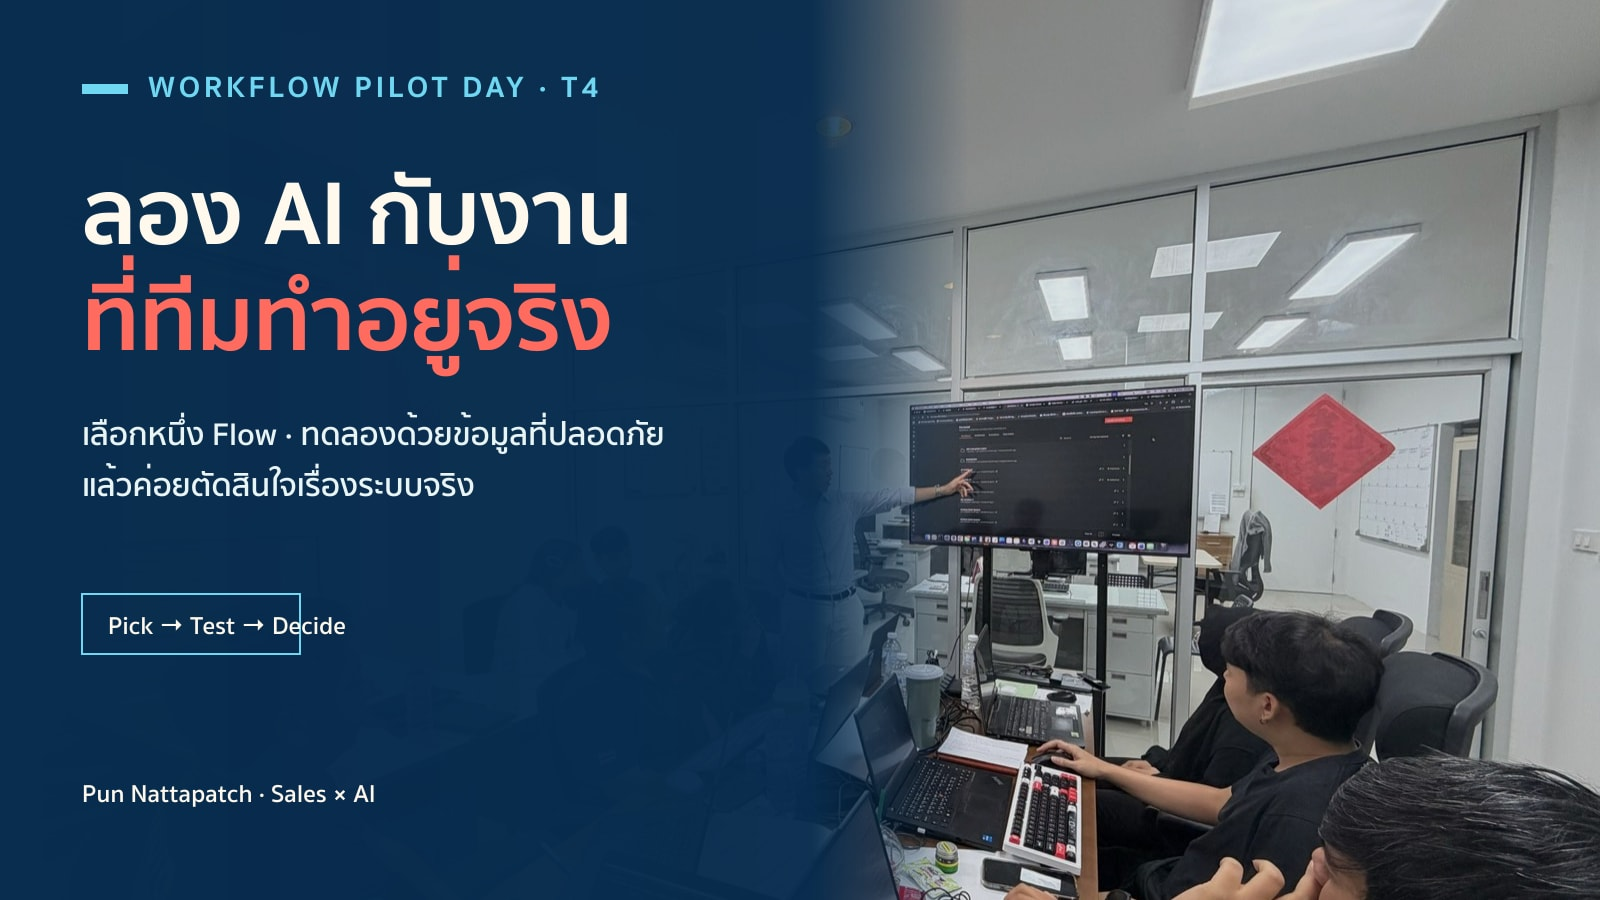
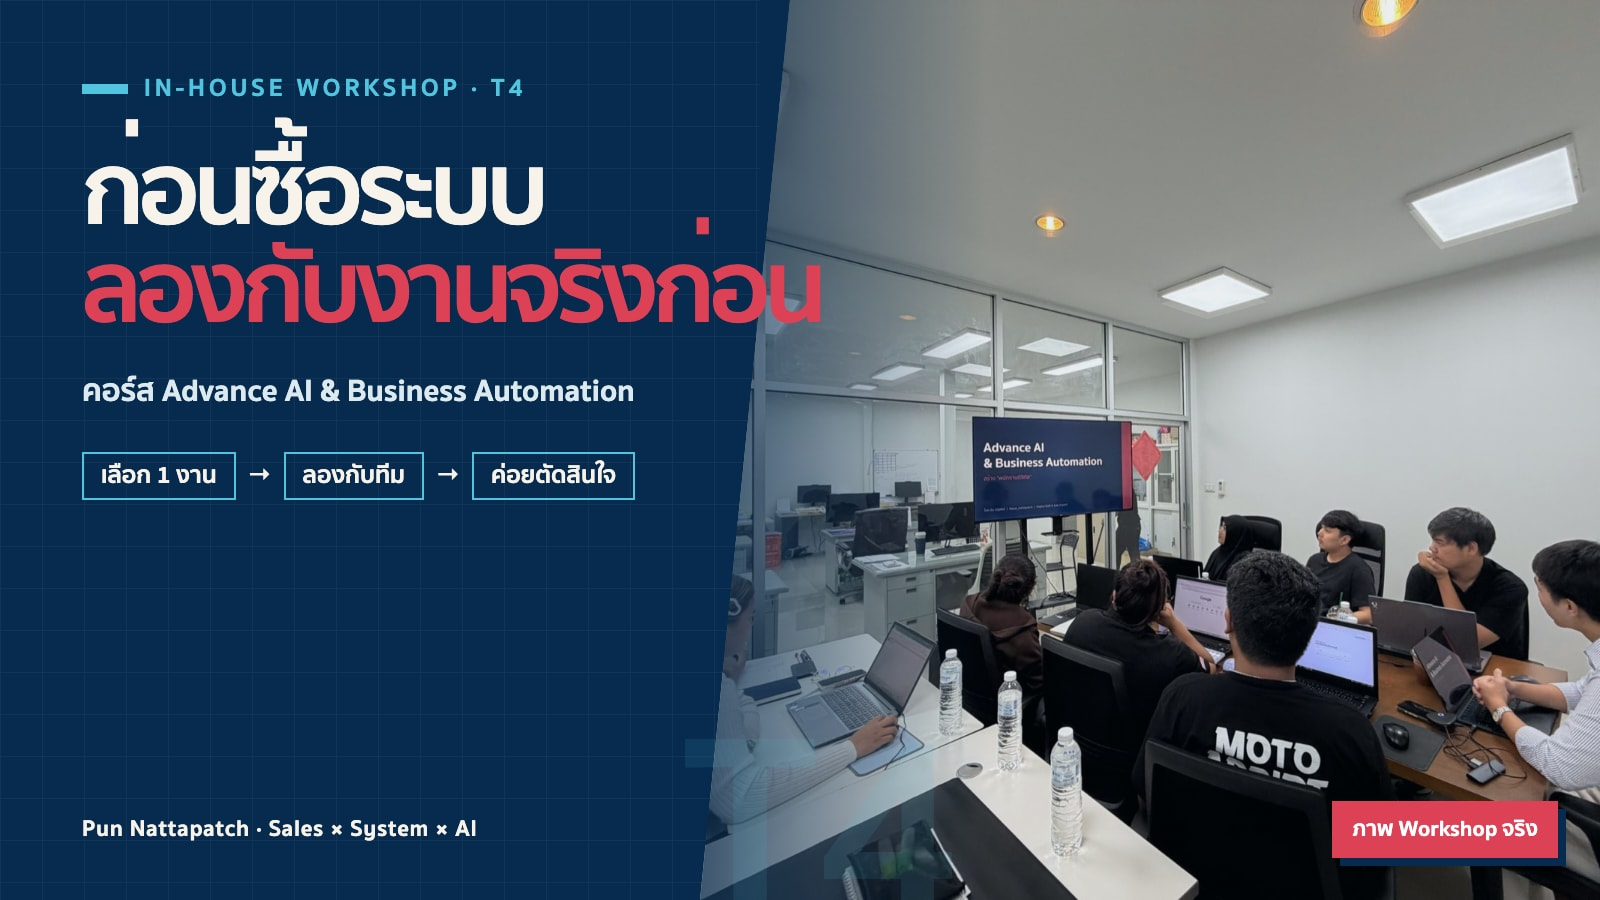
feat: add real-photo T4 service thumbnail

diff --git a/scripts/t4-service-thumbnail.html b/scripts/t4-service-thumbnail.html
@@ -1,0 +1,74 @@
+<!doctype html>
+<html lang="th" data-theme="light">
+<head>
+  <meta charset="UTF-8" />
+  <meta name="viewport" content="width=device-width, initial-scale=1.0" />
+  <title>T4 service thumbnail</title>
+  <link rel="preconnect" href="https://fonts.googleapis.com" />
+  <link rel="preconnect" href="https://fonts.gstatic.com" crossorigin />
+  <link href="https://fonts.googleapis.com/css2?family=Noto+Sans+Thai:wght@500;600;700;800;900&amp;display=swap" rel="stylesheet" />
+  <link href="https://cdn.jsdelivr.net/npm/daisyui@5.4.7/daisyui.css" rel="stylesheet" type="text/css" />
+  <script src="https://cdn.jsdelivr.net/npm/@tailwindcss/browser@4.1.14"></script>
+  <style type="text/tailwindcss">
+    @theme {
+      --font-display: "Sukhumvit Set", "Noto Sans Thai", sans-serif;
+      --font-body: "Sukhumvit Set", "Noto Sans Thai", sans-serif;
+      --color-pun-navy: #072b4e;
+      --color-pun-coral: #dd4155;
+      --color-pun-ivory: #f7f3ea;
+      --color-pun-cyan: #51c4df;
+    }
+
+    * { box-sizing: border-box; }
+    html, body { width: 1600px; height: 900px; margin: 0; overflow: hidden; }
+    body { font-family: var(--font-body); }
+    .artboard {
+      @apply relative h-[900px] w-[1600px] overflow-hidden bg-pun-navy text-pun-ivory;
+      isolation: isolate;
+    }
+    .photo {
+      @apply absolute right-0 top-0 h-full w-[900px] overflow-hidden;
+      clip-path: polygon(10% 0, 100% 0, 100% 100%, 0 100%);
+    }
+    .photo img { @apply h-full w-full object-cover; object-position: 53% 61%; }
+    .photo::after {
+      content: "";
+      @apply absolute inset-0;
+      background: linear-gradient(90deg, rgba(7, 43, 78, .76) 0%, rgba(7, 43, 78, .08) 32%, rgba(7, 43, 78, .08) 100%);
+    }
+    .copy { @apply absolute left-[82px] top-[70px] z-10 w-[790px]; }
+    .eyebrow { @apply flex items-center gap-4 text-[25px] font-bold uppercase tracking-[.16em] text-pun-cyan; }
+    .eyebrow::before { content: ""; @apply block h-[10px] w-[46px] bg-pun-cyan; }
+    .hook { @apply mt-9 font-display text-[100px] font-bold leading-[.98] tracking-[-.055em]; }
+    .hook em { @apply not-italic text-pun-coral; }
+    .offer { @apply mt-8 max-w-[690px] text-[31px] font-bold leading-[1.3] text-[#dceaf0]; }
+    .mechanism { @apply mt-10 flex items-center gap-3 font-display text-[24px] font-bold; }
+    .mechanism span { @apply border-2 border-pun-cyan px-[17px] py-[10px] leading-none; }
+    .signature { @apply absolute bottom-[54px] left-[82px] z-10 flex items-center gap-3 text-[23px] font-bold tracking-[.03em]; }
+    .proof-chip { @apply absolute bottom-[42px] right-[42px] z-10 bg-pun-coral px-5 py-3 text-[22px] font-bold text-white shadow-[8px_8px_0_#072b4e]; }
+    .index { @apply absolute bottom-[-54px] left-[685px] z-0 font-display text-[250px] font-bold leading-none text-pun-cyan opacity-[.11]; }
+    .grid-mark {
+      @apply absolute inset-y-0 left-0 w-[760px] opacity-[.055];
+      background-image: linear-gradient(rgba(247,243,234,.8) 1px, transparent 1px), linear-gradient(90deg, rgba(247,243,234,.8) 1px, transparent 1px);
+      background-size: 42px 42px;
+    }
+  </style>
+</head>
+<body>
+  <main id="t4-thumbnail" class="artboard" data-source-kind="real-workshop-photo" data-title="คอร์ส Advance AI &amp; Business Automation">
+    <div class="grid-mark" aria-hidden="true"></div>
+    <div class="photo">
+      <img src="../public/lp/inhouse/office-session.jpg" alt="ทีมจริงใน Workshop Advance AI และ Business Automation" />
+    </div>
+    <div class="copy">
+      <p class="eyebrow">In-house Workshop · T4</p>
+      <h1 class="hook" data-fit>ก่อนซื้อระบบ<br /><em>ลองกับงานจริงก่อน</em></h1>
+      <p class="offer" data-fit>คอร์ส Advance AI &amp; Business Automation</p>
+      <div class="mechanism" data-fit><span>เลือก 1 งาน</span><b>→</b><span>ลองกับทีม</span><b>→</b><span>ค่อยตัดสินใจ</span></div>
+    </div>
+    <span class="index" aria-hidden="true">T4</span>
+    <p class="signature">Pun Nattapatch · Sales × System × AI</p>
+    <p class="proof-chip">ภาพ Workshop จริง</p>
+  </main>
+</body>
+</html>

diff --git a/tests/services-vnext.spec.ts b/tests/services-vnext.spec.ts
@@ -259,10 +259,10 @@ test('services catalog has healthy card images and no horizontal overflow at rel
     assert.ok(overflow.scrollWidth <= overflow.clientWidth, `${viewport.width}px viewport must not overflow horizontally`);
 
     const cards = page.locator('[data-offer-code]');
-    assert.equal(await cards.count(), 6, 'all six catalog roles must render once');
+    assert.equal(await cards.count(), 7, 'all seven catalog offers must render once');
     assert.equal(await cards.first().getAttribute('data-offer-code'), 'T2', 'T2 must remain the first catalog card');
     const images = cards.locator('figure > img');
-    assert.equal(await images.count(), 6, 'every catalog role must render one thumbnail');
+    assert.equal(await images.count(), 7, 'every catalog offer must render one thumbnail');
     for (let index = 0; index < await images.count(); index += 1) {
       const image = images.nth(index);
       await image.scrollIntoViewIfNeeded();
@@ -296,13 +296,14 @@ test('services catalog has healthy card images and no horizontal overflow at rel
   await page.close();
 });
 
-test('five catalog cards open their canonical detail pages and preserve LINE decision help', async ({ browser }) => {
+test('six catalog cards open their canonical detail pages and preserve LINE decision help', async ({ browser }) => {
   const page = await browser.newPage({ viewport: { width: 1280, height: 800 } });
   page.setDefaultTimeout(5_000);
   const details = [
     ['T2', '/services/online-to-sales'],
     ['T1', '/services/t1-sales-skills'],
     ['T3', '/services/t3-sales-back-office'],
+    ['T4', '/services/advance-ai-automation'],
     ['C1', '/services/daily-consulting'],
     ['I1', '/services/dashboard-build'],
   ];
@@ -337,6 +338,13 @@ test('five catalog cards open their canonical detail pages and preserve LINE dec
   assert.equal(await a1.locator('[data-offer-detail-link]').count(), 0, 'A1 must not expose a public detail route');
   assert.equal(await a1.locator('[data-offer-line-link]').getAttribute('href'), 'https://lin.ee/ioSnSUG', 'A1 must remain a LINE-only proposal path');
   await page.close();
+});
+
+test('T4 catalog artwork is rendered from the approved real workshop photograph', async () => {
+  const template = await readFile(join(root, 'scripts/t4-service-thumbnail.html'), 'utf8');
+  assert.match(template, /data-source-kind="real-workshop-photo"/, 'T4 HTML artboard must declare real-photo provenance');
+  assert.match(template, /\.\.\/public\/lp\/inhouse\/office-session\.jpg/, 'T4 artboard must use the real Advance AI workshop session');
+  assert.match(template, /ก่อนซื้อระบบ[\s\S]*ลองกับงานจริงก่อน/, 'T4 thumbnail must keep the approved two-second message in editable HTML');
 });
 
 test('legacy product URLs redirect one hop to a healthy canonical detail page', async () => {
@@ -410,7 +418,7 @@ test('chooser and legacy hashes resolve to every canonical offer target', async 
   await page.goto(`${baseURL}/services`);
 
   const chooserTargets = await page.locator('#offer-chooser a[href^="#offer-"]').evaluateAll((links) => links.map((link) => link.getAttribute('href')));
-  assert.deepEqual(chooserTargets, ['#offer-t1', '#offer-t2', '#offer-t3', '#offer-c1', '#offer-i1', '#offer-a1']);
+  assert.deepEqual(chooserTargets, ['#offer-t1', '#offer-t2', '#offer-t3', '#offer-t4', '#offer-c1', '#offer-i1', '#offer-a1']);
 
   for (const target of [
     'sales-team-structure',
@@ -418,6 +426,7 @@ test('chooser and legacy hashes resolve to every canonical offer target', async 
     'offer-t1',
     'offer-t2',
     'offer-t3',
+    'offer-t4',
     'offer-c1',
     'offer-i1',
     'offer-a1',
